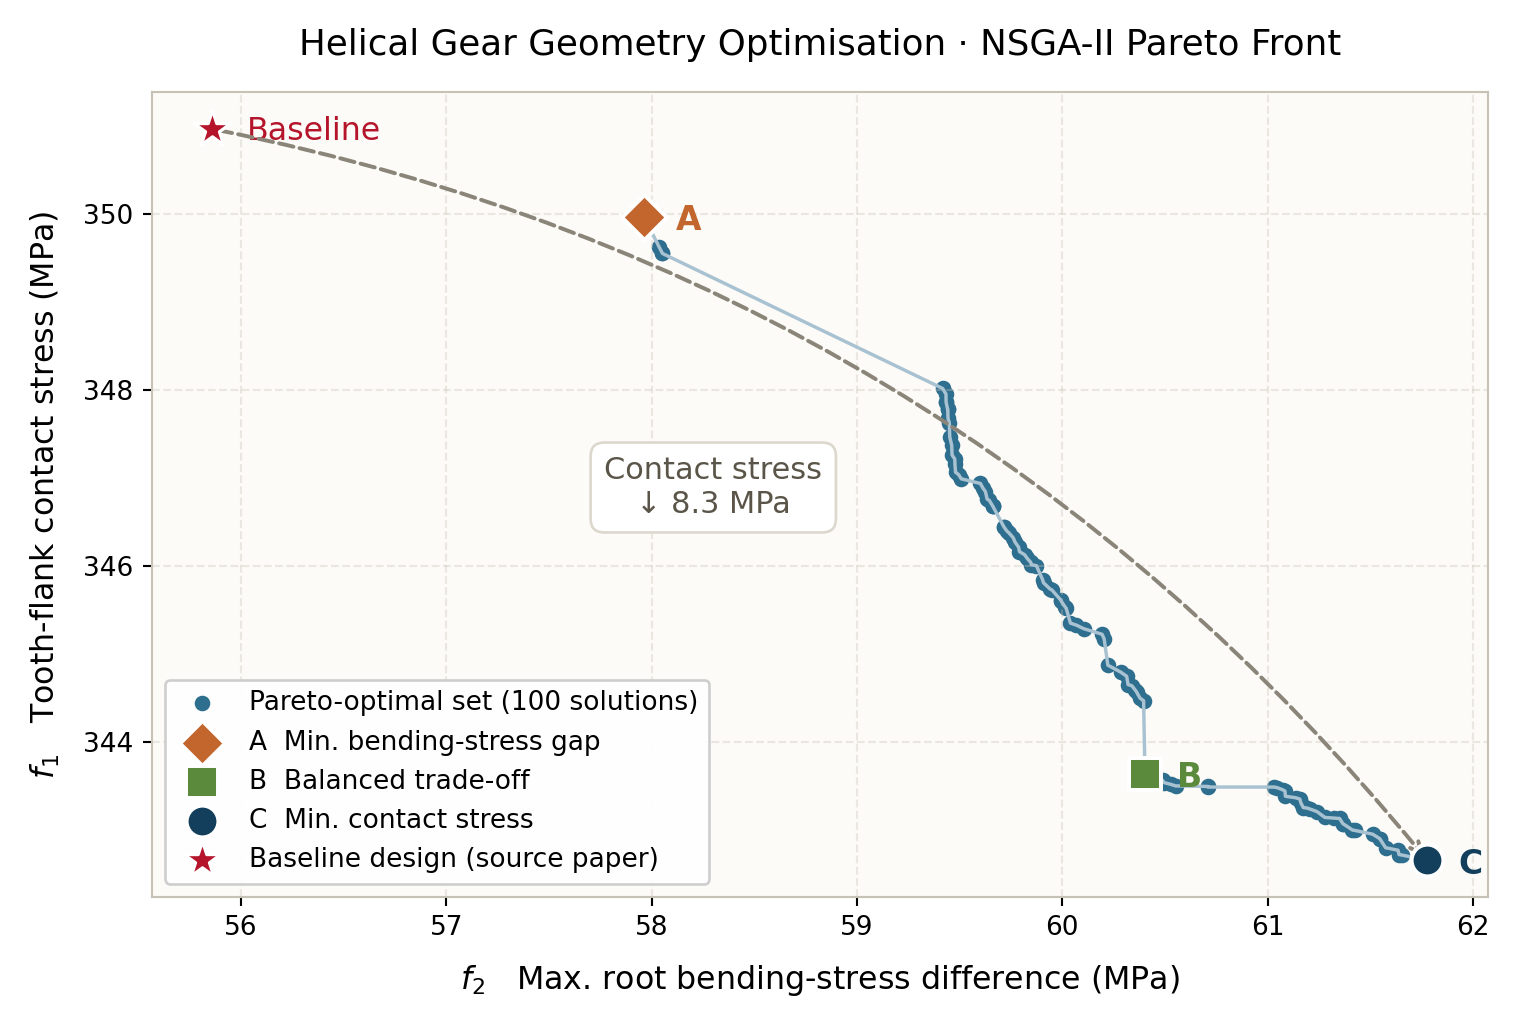
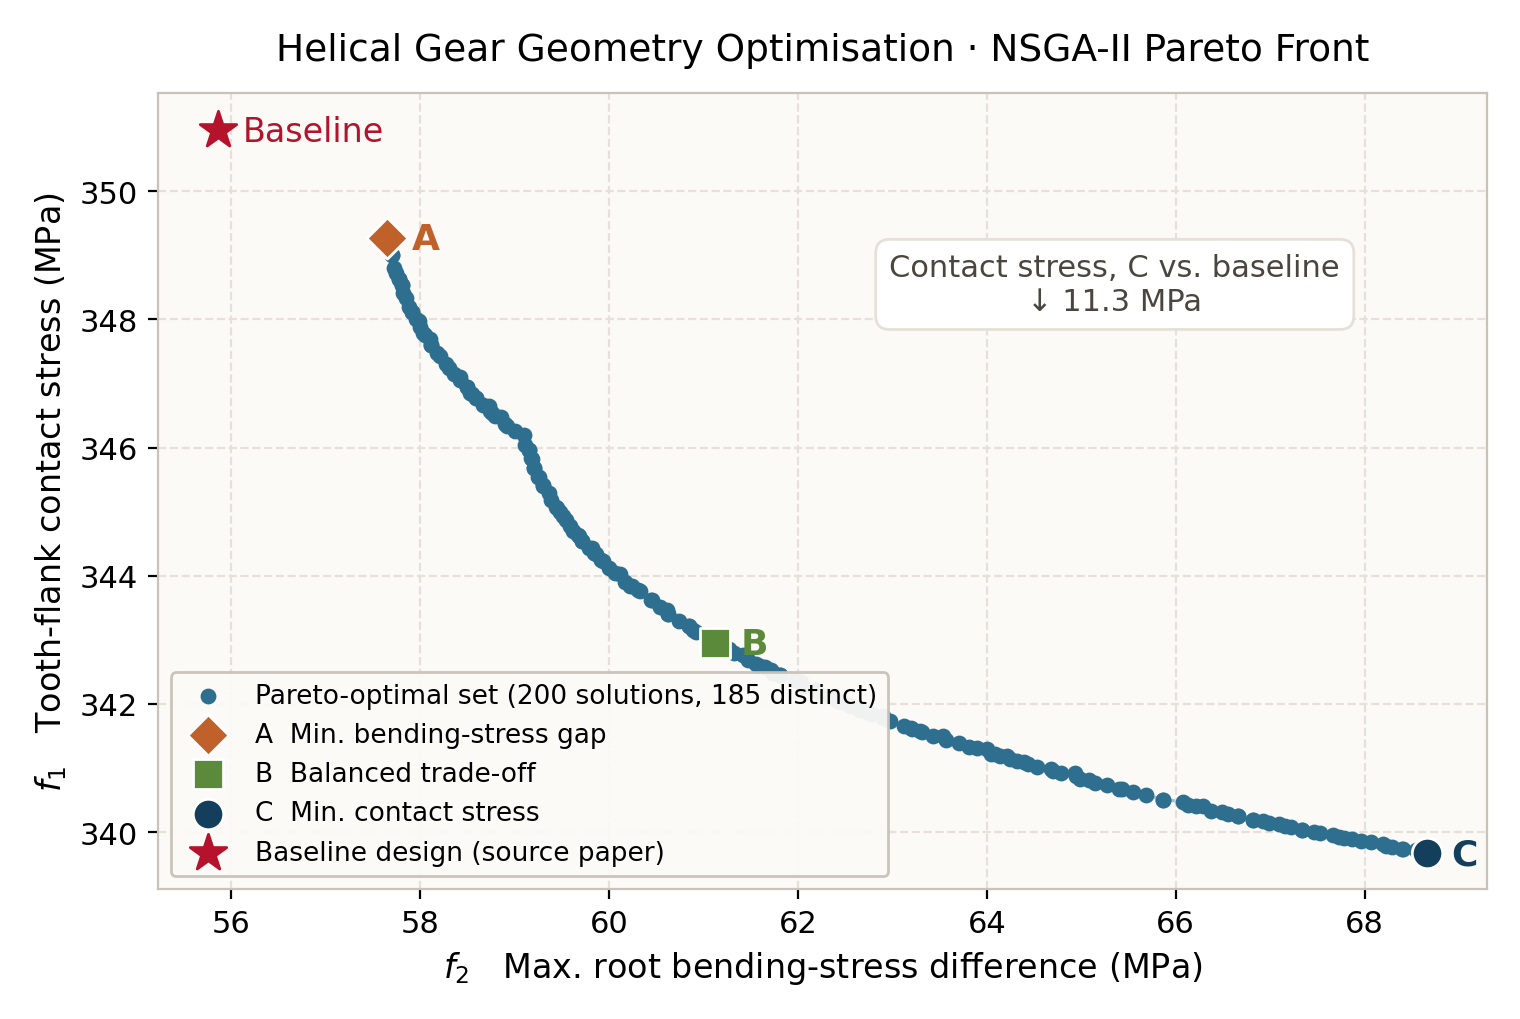
Align README results and figures with the code output
- Routing table and convergence figure regenerated from the script's own
  run (MATLAB R2023a, rng(6)); hybrid/TS gap is 0.01%, not 0.04%
- Pareto-front figure regenerated from a seeded run (rng(1)): 200 solutions,
  185 distinct
- Note that the paper's baseline design is feasible and not dominated by
  the computed front
- CVT figure already matched the code and is unchanged

diff --git a/README.md b/README.md
@@ -30,7 +30,10 @@ entirely and makes the constraint unsatisfiable for any shifted gear pair. Const
 violation is ranked ahead of non-dominated sorting so infeasible individuals never
 survive into the reported front.
 
-Population 200, 800 generations, SBX crossover and polynomial mutation.
+Population 200, 800 generations, SBX crossover and polynomial mutation. The paper's
+baseline design is feasible under this model and is not dominated by the front: its
+bending-stress gap (55.9 MPa) is smaller than any front point, at a higher contact
+stress (351.0 MPa vs. 339.7 MPa for design C).
 
 ---
 
@@ -66,12 +69,12 @@ Four algorithms run on identical data and iteration budget:
 
 | Algorithm | Final tour length | vs. greedy |
 |---|---|---|
-| Hybrid metaheuristic | 5469.6 | −1.80% |
-| Tabu Search | 5471.8 | −1.76% |
-| Ant Colony Optimisation | 5502.4 | −1.21% |
-| Greedy (baseline) | 5570.0 | — |
+| Hybrid metaheuristic | 5367.7 | −1.66% |
+| Tabu Search | 5368.3 | −1.65% |
+| Ant Colony Optimisation | 5396.4 | −1.14% |
+| Greedy (baseline) | 5458.4 | — |
 
-The hybrid and tabu results are within 0.04% of each other — on this instance the
+The hybrid and tabu results are within 0.01% of each other — on this instance the
 two are effectively tied, and the honest reading is that tabu search reaches the
 same quality with a simpler implementation.
 

diff --git a/03-pickup-delivery-routing/README.md b/03-pickup-delivery-routing/README.md
@@ -19,14 +19,14 @@ replace with your own data.
 
 | Algorithm | Final tour length | vs. greedy |
 |---|---|---|
-| Hybrid metaheuristic | 5469.6 | −1.80% |
-| Tabu Search | 5471.8 | −1.76% |
-| Ant Colony Optimisation | 5502.4 | −1.21% |
-| Greedy (baseline) | 5570.0 | — |
+| Hybrid metaheuristic | 5367.7 | −1.66% |
+| Tabu Search | 5368.3 | −1.65% |
+| Ant Colony Optimisation | 5396.4 | −1.14% |
+| Greedy (baseline) | 5458.4 | — |
 
 All four run on the same instance and the same iteration budget (100), so the numbers
-are directly comparable. The hybrid and tabu results differ by 0.04%, which is well
-inside run-to-run noise — on this instance they are tied, and tabu search gets there
+are directly comparable. Values are from MATLAB R2023a with the script's `rng(6)`.
+The hybrid and tabu results differ by 0.01%, which is well inside run-to-run noise — on this instance they are tied, and tabu search gets there
 with a simpler implementation.
 
 ## Swapping in your own data

diff --git a/01-helical-gear-nsga2/README.md b/01-helical-gear-nsga2/README.md
@@ -49,5 +49,10 @@ against the helix-angle bound.
 ## Output
 
 The feasible non-dominated set (at most the population size, 200) plus three labelled
-representatives: minimum bending-stress
-gap (A), balanced trade-off (B) and minimum contact stress (C).
+representatives: minimum bending-stress gap (A), balanced trade-off (B) and minimum
+contact stress (C).
+
+The script sets no random seed, so the front varies slightly between runs. The figure
+in the top-level README comes from `rng(1)` on MATLAB R2023a: 200 solutions (185
+distinct), f₁ 339.7–349.3 MPa, f₂ 57.6–68.7 MPa. The paper's baseline design
+(f₁ = 351.0 MPa, f₂ = 55.9 MPa) is feasible and is not dominated by that front.
